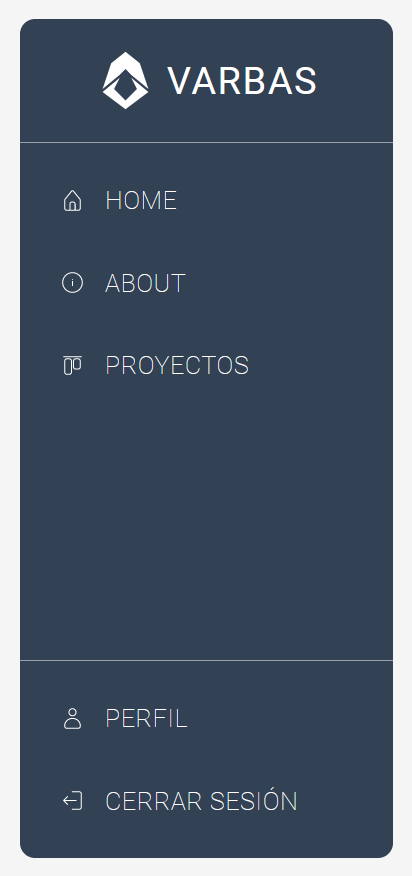
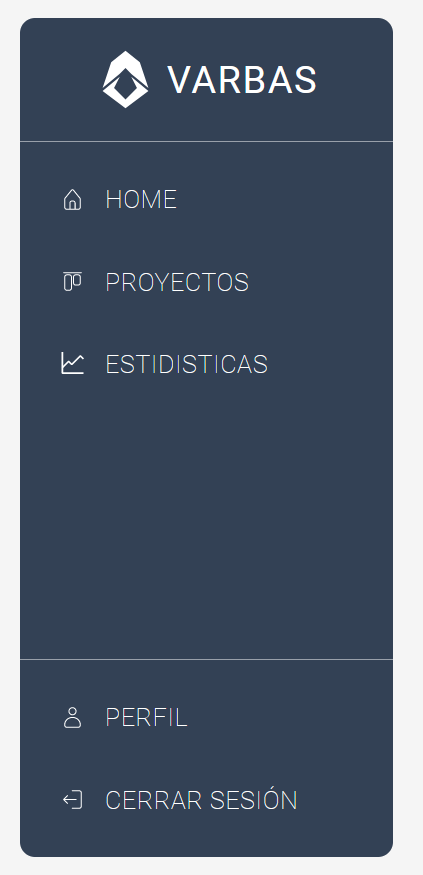
up

diff --git a/presentacion/PRESENTACION.md b/presentacion/PRESENTACION.md
@@ -129,3 +129,18 @@ En el desarrollo de Varbas se ha utilizado la siguiente tecnología para el host
 
 ![bg fit](img/grid-proyectos.png)
 
+---
+
+# Futuras mejoras:
+- Añadir un buscador de proyectos.
+- Tablero tipo Kanban para cada proyecto.
+  - Mostrar las tareas según su estado.
+  - Añadir nuevas tareas.
+  - Alterar el estado de las tareas.
+- Estadísticas de cada proyecto.
+  - Progreso de las tareas.
+  - Actividad de los miembros del equipo.
+  - Fechas límite.
+- Estadisticas Individuales
+  - Progreso de las tareas.
+  - Fechas límite.
